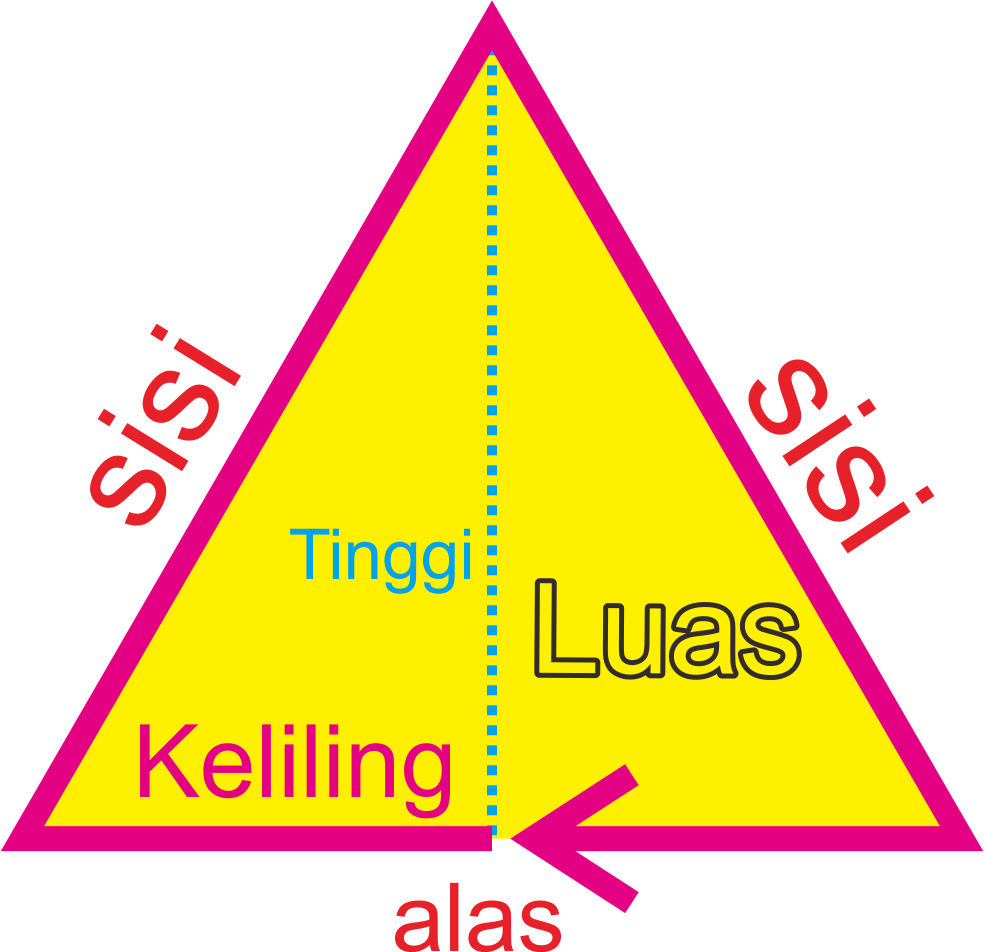
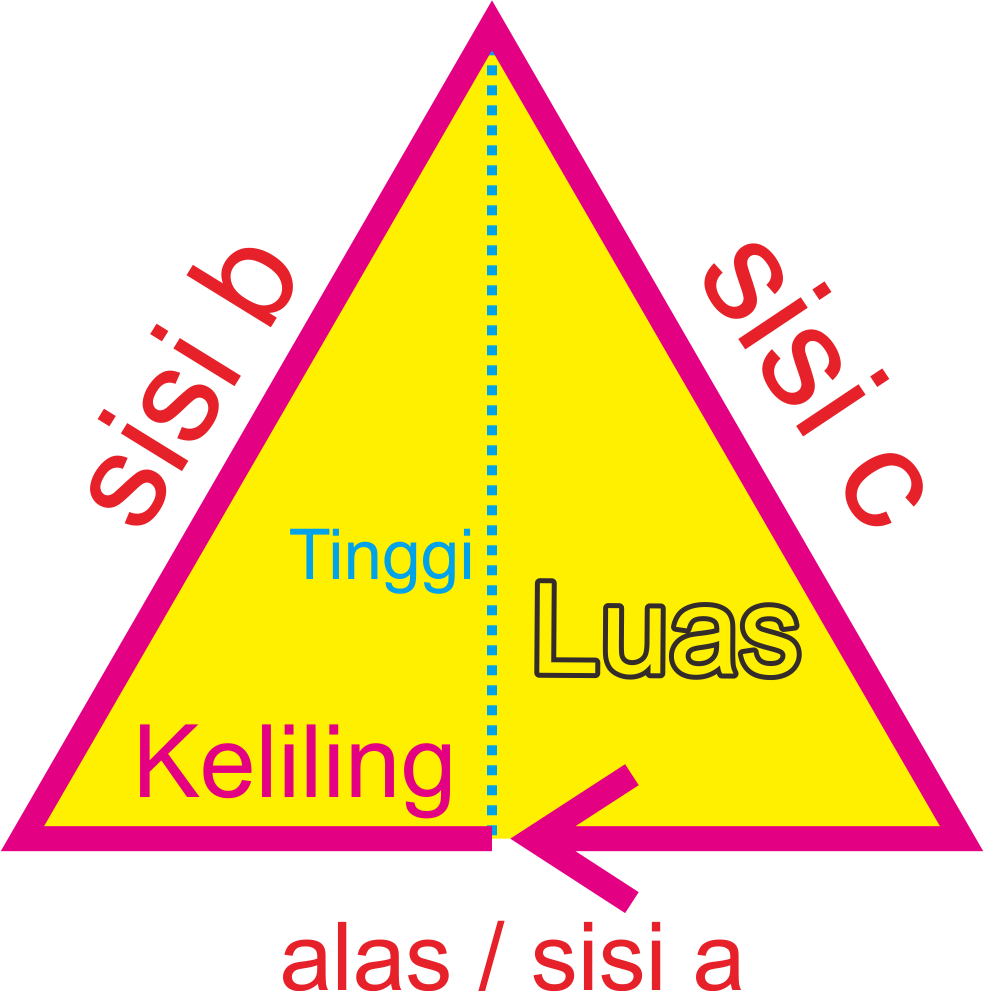
Add files via upload

Changed region(s): [[0.0, 0.0609, 1.0, 1.0], [0.7012, 0.9443, 0.7622, 1.0], [0.8232, 0.2742, 0.8537, 0.3046]]

diff --git a/segitiga.html b/segitiga.html
@@ -39,12 +39,12 @@
 
                 <!-- input keliling -->
                 <div class="input-sisi-persegi">
-                    <h2 style="text-align: center;">Masukkan sisi</h2>
-                    <input id="input-sisi1-segitiga" class="input-sisi-segitiga" type="number" placeholder="">
-                    <h2 style="text-align: center;">Masukkan sisi</h2>
-                    <input id="input-sisi2-segitiga" class="input-sisi-segitiga" type="number" placeholder="">
-                    <h2 style="text-align: center;">Masukkan alas</h2>
-                    <input id="input-sisi3-segitiga" class="input-sisi-segitiga" type="number" placeholder="">
+                    <h2 style="text-align: center;">Masukkan sisi a / alas</h2>
+                    <input i="input-sisi-a-segitiga" class="input-sisi-segitiga" type="number" placeholder="">
+                    <h2 style="text-align: center;">Masukkan sisi b</h2>
+                    <input id="input-sisi-b-segitiga" class="input-sisi-segitiga" type="number" placeholder="">
+                    <h2 style="text-align: center;">Masukkan sisi c</h2>
+                    <input id="input-sisi-c-segitiga" class="input-sisi-segitiga" type="number" placeholder="">
                 </div>
 
                 <!-- input luas -->
@@ -66,12 +66,12 @@
                     <!-- input luas tidak diketahui tingginya -->
                      <!-- x = tidak diketahui / unknown -->
                      <div class="luas-segitiga-tidakdiketahui-t">
-                        <h2 style="text-align: center;">Masukkan sisi</h2>
-                        <input id="input-sisi1-segitiga-x" class="input-sisi-segitiga" type="number" placeholder="">
-                        <h2 style="text-align: center;">Masukkan sisi</h2>
-                        <input id="input-sisi2-segitiga-x" class="input-sisi-segitiga" type="number" placeholder="">
                         <h2 style="text-align: center;">Masukkan alas</h2>
-                        <input id="input-alas-segitiga-x" class="input-sisi-segitiga" type="number" placeholder="">
+                        <input id="input-sisi-a-segitiga-x" class="input-sisi-segitiga" type="number" placeholder="">
+                        <h2 style="text-align: center;">Masukkan sisi b</h2>
+                        <input id="input-sisi-b-segitiga-x" class="input-sisi-segitiga" type="number" placeholder="">
+                        <h2 style="text-align: center;">Masukkan sisi c</h2>
+                        <input id="input-alas-c-segitiga-x" class="input-sisi-segitiga" type="number" placeholder="">
                      </div>
                 </div>
 
